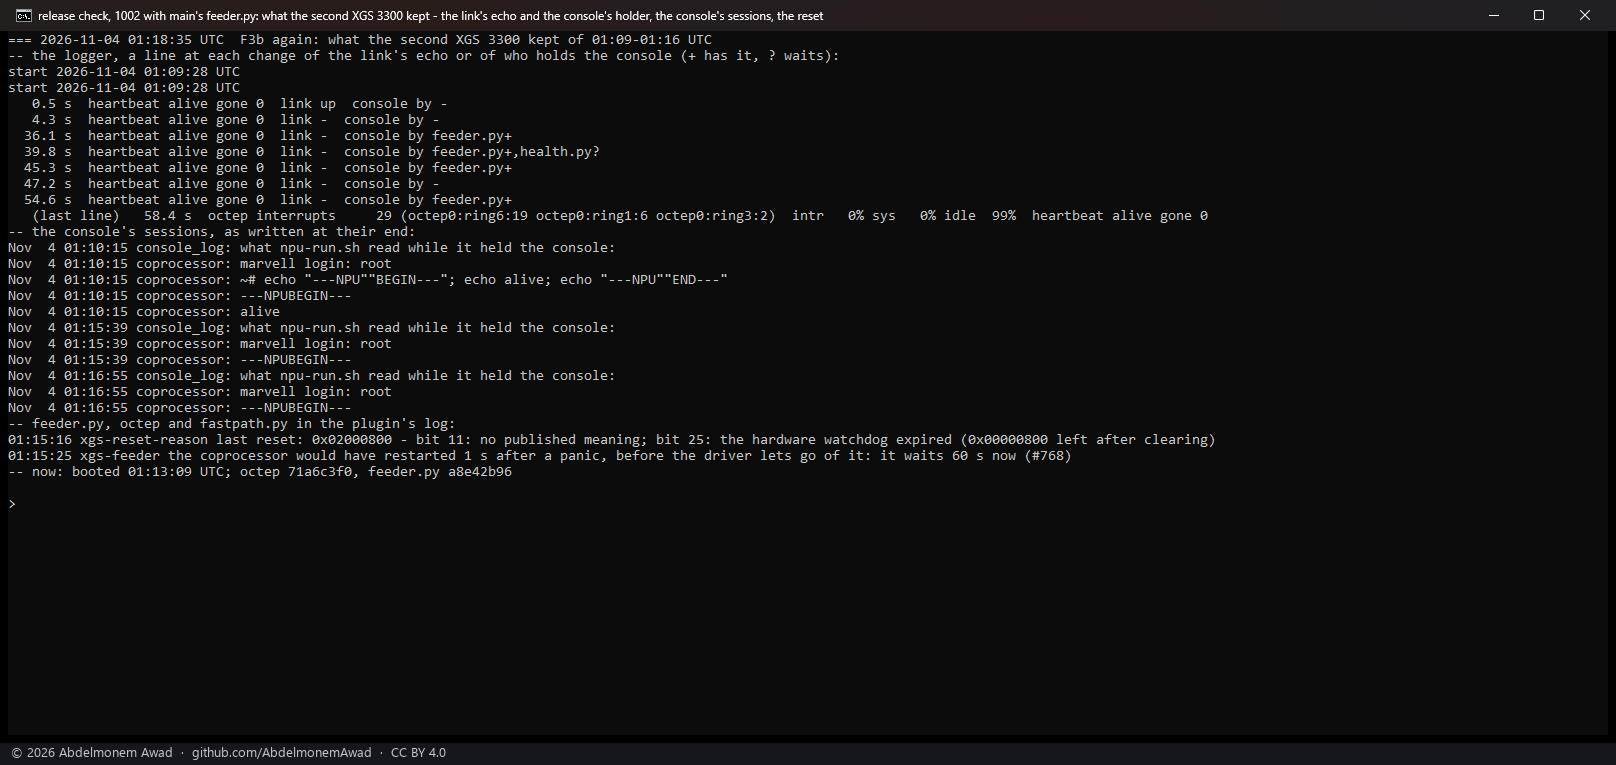
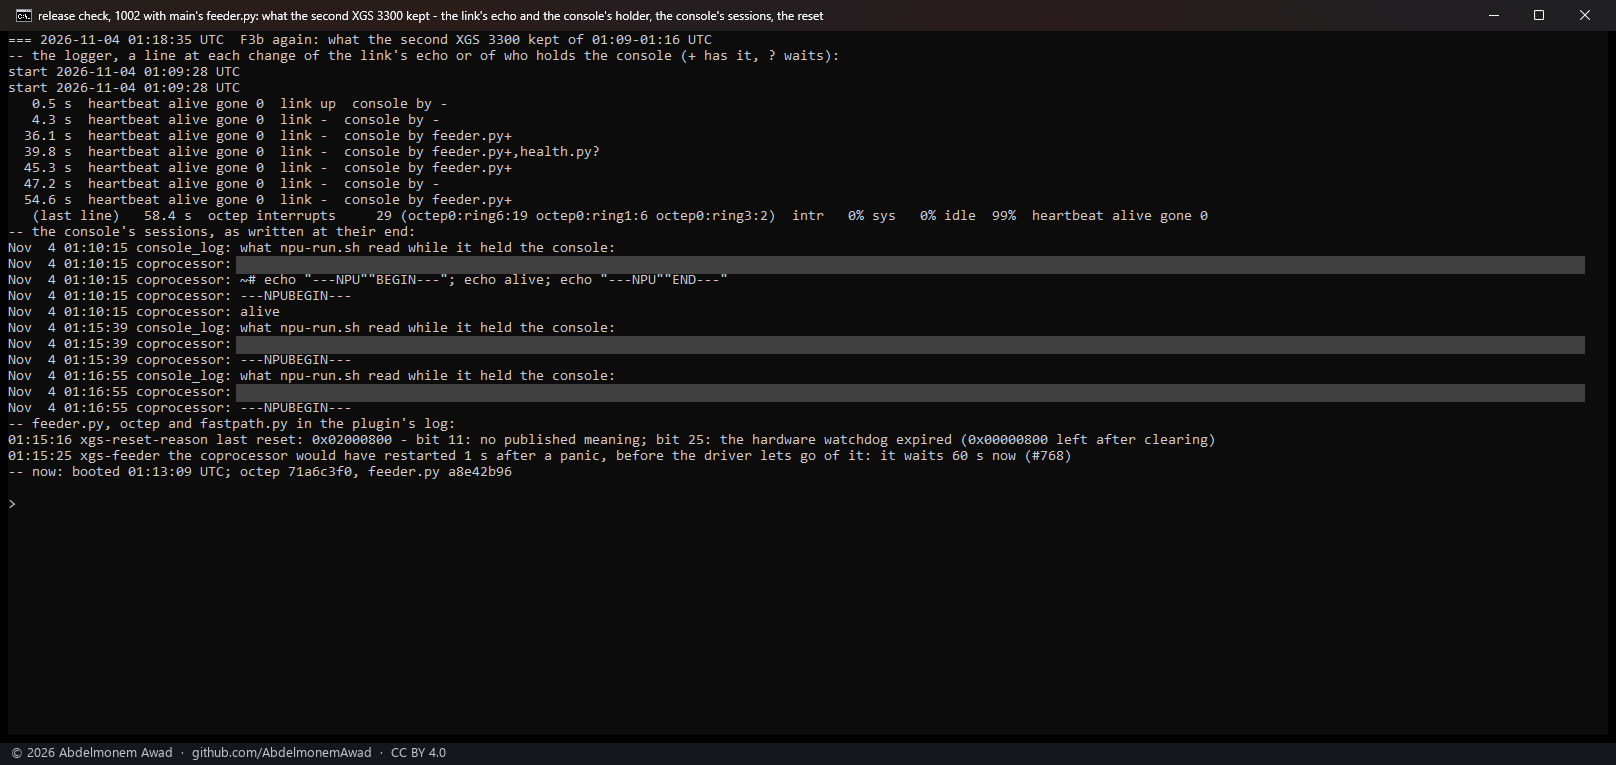
docs: the coprocessor console's login covered in nine photographs, and left out of the text
The release check's photos 62-65, 74, 77, 78, 80 and 98 showed the coprocessor console's login
prompt, what was typed at it and its password prompt. Those lines are covered with a flat grey box,
found by OCR over every image the repository carries (820) and checked by eye. The page's captions
and armada.md no longer spell the login out. Nothing else in the photographs changed.

Changed region(s): [[0.1238, 0.4209, 0.9901, 0.5412], [0.1238, 0.3307, 0.9901, 0.3608]]

diff --git a/docs/images/README.md b/docs/images/README.md
@@ -1006,7 +1006,7 @@ The page: [release-check-2026-11-03.md](../measurements/release-check-2026-11-03
 | [50-second-3300-F3-the-fix-two-runs-logged.png](measurements/release-check-2026-11-03/50-second-3300-F3-the-fix-two-runs-logged.png) | The second XGS 3300, 17:31 and 17:38, the two F3 runs with 1008's feeder.py (sha256 1843b3a4) as the run's script logged them: quiesced at 32 s of silence, the coprocessor's kernel not asked for its state, taken up in place in 176 and 178 s, booted again: no | [release-check-2026-11-03.md](../measurements/release-check-2026-11-03.md) |
 | [60-soak-two-parts.png](measurements/release-check-2026-11-03/60-soak-two-parts.png) | The soak in its two parts - the XGS 136's streams from Port3, then from F1 - and the first, middle and last looks at each box | [release-check-2026-11-03.md](../measurements/release-check-2026-11-03.md) |
 | [61-soak-kernel-lines-and-port3.png](measurements/release-check-2026-11-03/61-soak-kernel-lines-and-port3.png) | What the three kernels logged in the soak's hours, and the PC's own record of its link on the XGS 136's Port3 | [release-check-2026-11-03.md](../measurements/release-check-2026-11-03.md) |
-| [62-136-L1-main-console-held.png](measurements/release-check-2026-11-03/62-136-L1-main-console-held.png) | The XGS 136, 23:43, F11 run 1: main's mgmt-link.sh coprocessor while feeder.py's look held the console - its login typed into that session, root: command not found, its address command run there; the test's holder could not get the console | [release-check-2026-11-03.md](../measurements/release-check-2026-11-03.md) |
+| [62-136-L1-main-console-held.png](measurements/release-check-2026-11-03/62-136-L1-main-console-held.png) | The XGS 136, 23:43, F11 run 1: main's mgmt-link.sh coprocessor while feeder.py's look held the console - its login typed into that session and refused there as a command, its address command run there; the test's holder could not get the console | [release-check-2026-11-03.md](../measurements/release-check-2026-11-03.md) |
 | [63-136-L1-main-session-held.png](measurements/release-check-2026-11-03/63-136-L1-main-session-held.png) | The XGS 136, 23:46, F11 run 2: main's script while the test's holder held the console - it ended in 10 s with the coprocessor not answering, and its typing ran later in the holder's shell, leaving the console at a password prompt | [release-check-2026-11-03.md](../measurements/release-check-2026-11-03.md) |
 | [64-136-L1-fix-session-held.png](measurements/release-check-2026-11-03/64-136-L1-fix-session-held.png) | The XGS 136, 23:47, F11 run 3: the fix's script, md5 52a8850a, with no blind writer - the holder found the password prompt and gave up; the fix logged in in its own session and the coprocessor answered in 31 s | [release-check-2026-11-03.md](../measurements/release-check-2026-11-03.md) |
 | [65-136-L1-fix-session-held-2.png](measurements/release-check-2026-11-03/65-136-L1-fix-session-held-2.png) | The XGS 136, 23:48, F11 run 4: the fix's script while the holder held the console for 25 s and a look of feeder.py came after it - it waited through both, the holder read its own line undisturbed, and the coprocessor answered in 78 s | [release-check-2026-11-03.md](../measurements/release-check-2026-11-03.md) |
@@ -1042,7 +1042,7 @@ The page: [release-check-2026-11-03.md](../measurements/release-check-2026-11-03
 | [95-136-1010-boots-3s.png](measurements/release-check-2026-11-03/95-136-1010-boots-3s.png) | The XGS 136, 03:33-03:38, a84cf06c: the coprocessor answering at +87 and +86 s | [release-check-2026-11-03.md](../measurements/release-check-2026-11-03.md) |
 | [96-971-reporter-three-boxes.png](measurements/release-check-2026-11-03/96-971-reporter-three-boxes.png) |  | *no page yet* |
 | [97-first-3300-w2-l0.png](measurements/release-check-2026-11-03/97-first-3300-w2-l0.png) | The first XGS 3300 after the install, 11:19-11:25: feeder.py 44b17f7e, npu-run.sh 1aaed7e5 and octep 4adb8488 in place before the boot, feeder.py with two threads, looks at +12, +32 and +54 s, the link answering | [release-check-2026-11-03.md](../measurements/release-check-2026-11-03.md) |
-| [98-first-3300-w2-l9-a.png](measurements/release-check-2026-11-03/98-first-3300-w2-l9-a.png) | The first XGS 3300, 11:27-11:32: npu-run.sh on the box - the console's mark, a stopped getty (exit 69), the coprocessor's sshd stopped, a continuation prompt cleared by the Ctrl-C (the console's log shows "> ^C" and then "~#"), and the look of feeder.py that met one; the password prompt could not be made, the coprocessor's root logs in without one | [release-check-2026-11-03.md](../measurements/release-check-2026-11-03.md) |
+| [98-first-3300-w2-l9-a.png](measurements/release-check-2026-11-03/98-first-3300-w2-l9-a.png) | The first XGS 3300, 11:27-11:32: npu-run.sh on the box - the console's mark, a stopped getty (exit 69), the coprocessor's sshd stopped, a continuation prompt cleared by the Ctrl-C (the console's log shows "> ^C" and then "~#"), and the look of feeder.py that met one; the password prompt could not be made | [release-check-2026-11-03.md](../measurements/release-check-2026-11-03.md) |
 | [99-first-3300-w2-l6-plain-stop-1.png](measurements/release-check-2026-11-03/99-first-3300-w2-l6-plain-stop-1.png) | The first XGS 3300, 11:33: #768's plain stop - found silent at 19 s and again at 31 s, octep told at 33 s, taken up in place in 170 s | [release-check-2026-11-03.md](../measurements/release-check-2026-11-03.md) |
 
 ### measurements/reload-136-2026-10-20/ (2)

diff --git a/docs/measurements/release-check-2026-11-03.md b/docs/measurements/release-check-2026-11-03.md
@@ -328,7 +328,7 @@ console (`images/deploy/rc-l1-test.sh`):
 
 | run | script | the session that held the console | what the script did | the link | the other session |
 |---|---|---|---|---|---|
-| 1 | main's, md5 `39c52191` | feeder.py's look (the test's own holder could not get the console) | typed its login into that session (`root: command not found`) and its address command after it; said "answers" in 8 s | up, by its command run in feeder.py's shell | logged out by its `exit`; the console left at a password prompt |
+| 1 | main's, md5 `39c52191` | feeder.py's look (the test's own holder could not get the console) | typed its login into that session, where the shell refused it as a command, and its address command after it; said "answers" in 8 s | up, by its command run in feeder.py's shell | logged out by its `exit`; the console left at a password prompt |
 | 2 | main's | the test's holder, 25 s | typed the same into the holder's session while it slept; said "does not answer ... yet" and ended in 10 s | down when it ended; up later, when the holder's shell ran what it had queued | read its own line; the console left at a password prompt |
 | 3 | the fix prepared for 1010, md5 `52a8850a` | the test's holder, which found run 2's password prompt and gave up | waited for the console, logged in in a session of its own and gave the address there | up in 31 s | - |
 | 4 | the fix | the test's holder, 25 s, and then a look of feeder.py | waited through both, then the same | up in 78 s | read its own line, undisturbed |
@@ -338,7 +338,7 @@ printed between the session's markers, so both of the fix's commands ran without
 is not in a pull request yet.~~ It is [1017](https://github.com/AbdelmonemAwad/os-xgs-npu/pull/1017),
 merged on 2026-11-04 after F11 at boot (below).
 
-![The XGS 136, 23:43, F11 run 1: main's mgmt-link.sh coprocessor while feeder.py's look held the console - its login typed into that session, root: command not found, its address command run there; the test's holder could not get the console](../images/measurements/release-check-2026-11-03/62-136-L1-main-console-held.png)
+![The XGS 136, 23:43, F11 run 1: main's mgmt-link.sh coprocessor while feeder.py's look held the console - its login typed into that session and refused there as a command, its address command run there; the test's holder could not get the console](../images/measurements/release-check-2026-11-03/62-136-L1-main-console-held.png)
 
 ![The XGS 136, 23:46, F11 run 2: main's script while the test's holder held the console - it ended in 10 s with the coprocessor not answering, and its typing ran later in the holder's shell, leaving the console at a password prompt](../images/measurements/release-check-2026-11-03/63-136-L1-main-session-held.png)
 
@@ -528,7 +528,7 @@ up did not bring it back; a restart of the appliance did, the link answering 77 
 
 ![The XGS 136 after the install: the same with npuep 147248cf, looks at +11, +32 and +52 s](../images/measurements/release-check-2026-11-03/102-136-w2-l0.png)
 
-![The first XGS 3300, 11:27-11:32: npu-run.sh on the box - the console's mark, a stopped getty (exit 69), the coprocessor's sshd stopped, a continuation prompt cleared by the Ctrl-C (the console's log shows "> ^C" and then "~#"), and the look of feeder.py that met one; the password prompt could not be made, the coprocessor's root logs in without one](../images/measurements/release-check-2026-11-03/98-first-3300-w2-l9-a.png)
+![The first XGS 3300, 11:27-11:32: npu-run.sh on the box - the console's mark, a stopped getty (exit 69), the coprocessor's sshd stopped, a continuation prompt cleared by the Ctrl-C (the console's log shows "> ^C" and then "~#"), and the look of feeder.py that met one; the password prompt could not be made](../images/measurements/release-check-2026-11-03/98-first-3300-w2-l9-a.png)
 
 ![The first XGS 3300, a boot with its coprocessor's sshd refusing for 180 s from its first answer: no quiesce, gone 0, nothing said](../images/measurements/release-check-2026-11-03/104-first-3300-w2-b.png)
 

diff --git a/docs/families/armada.md b/docs/families/armada.md
@@ -118,8 +118,8 @@ the same follower runs here, and it has not been tried on this appliance yet.
 
 The coprocessor's console is the host's second UART - `hint.uart.2.at="isa"`, `port="0x3E8"`,
 `irq="3"` in `/boot/loader.conf.local`, so `/dev/cuau2` on OPNsense at 115200 - the same
-arrangement as the OCTEON TX appliance's. A newline answers `marvell login:`; `root` with no
-password gives a root shell on a Buildroot 2018.11 userland over Linux 4.14.207, with 3 GB of
+arrangement as the OCTEON TX appliance's. A newline answers with its login prompt; logged in, it
+is a Buildroot 2018.11 userland over Linux 4.14.207, with 3 GB of
 memory and `usfp` running. An idle coprocessor prints nothing, so silence is not death. Read on
 2026-10-14 on the XGS 136.
 
